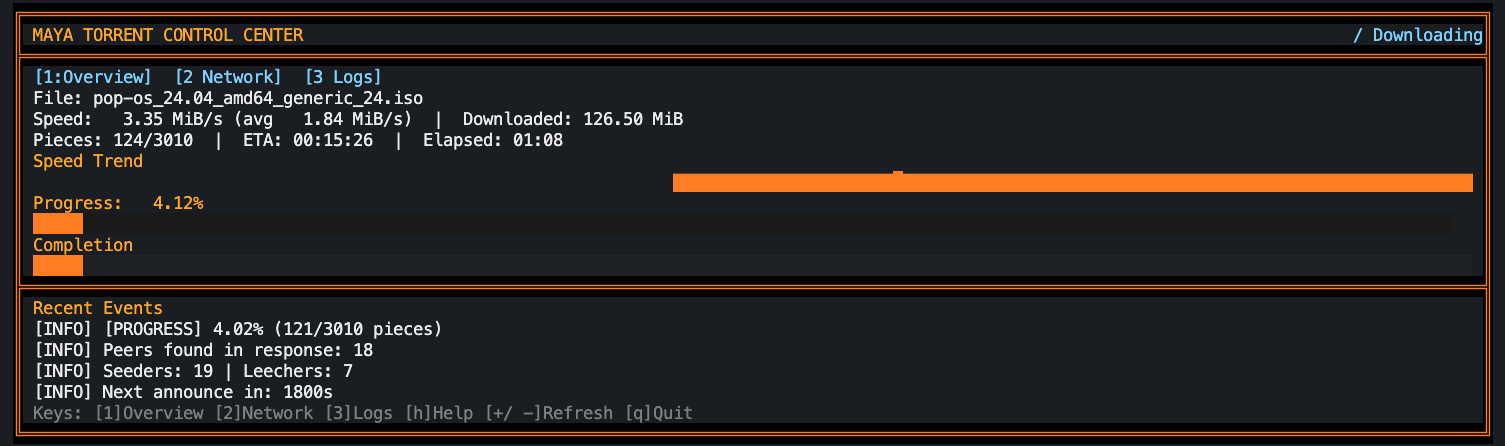
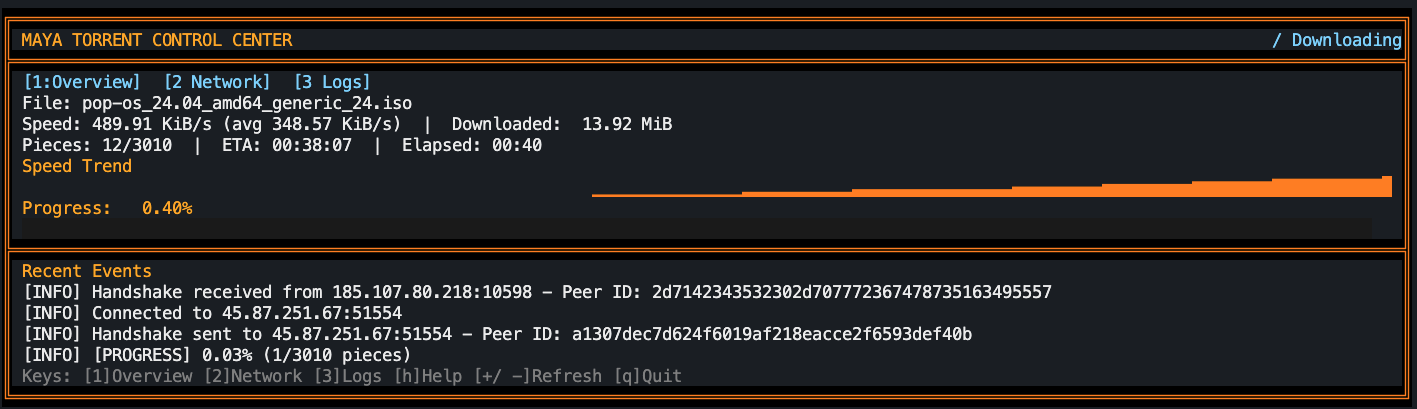
remove piece completion metrics from OrangeBlackTUI rendering

diff --git a/src/ui/orange_black_tui.py b/src/ui/orange_black_tui.py
@@ -371,9 +371,6 @@ class OrangeBlackTUI:
         peer_ratio = self.state.peers_connected / peer_count
         tracker_total = max(1, self.state.trackers_total)
         tracker_ratio = self.state.trackers_ok / tracker_total
-        piece_ratio = 0.0
-        if self.state.pieces_total > 0:
-            piece_ratio = self.state.pieces_done / self.state.pieces_total
 
         top_inner = width - 2
         header_title = f"{ANSI_BRIGHT_ORANGE} MAYA TORRENT CONTROL CENTER {ANSI_RESET}"
@@ -445,9 +442,6 @@ class OrangeBlackTUI:
 
         bar = self._progress_bar(inner - 2, self.state.progress_percent)
         body.append(self._render_line(bar, inner))
-
-        body.append(self._render_line("Completion", inner, ANSI_BRIGHT_ORANGE))
-        body.append(self._render_line(self._horizontal_meter(inner, piece_ratio, ANSI_ORANGE), inner))
 
         if self._view == "logs":
             log_lines = max(6, height - 18)
